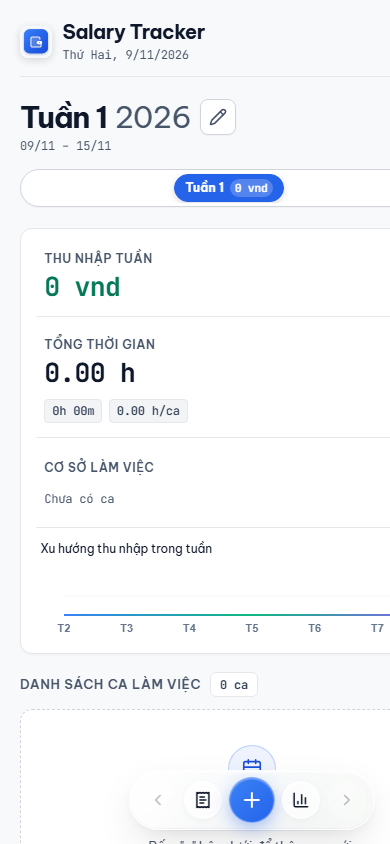
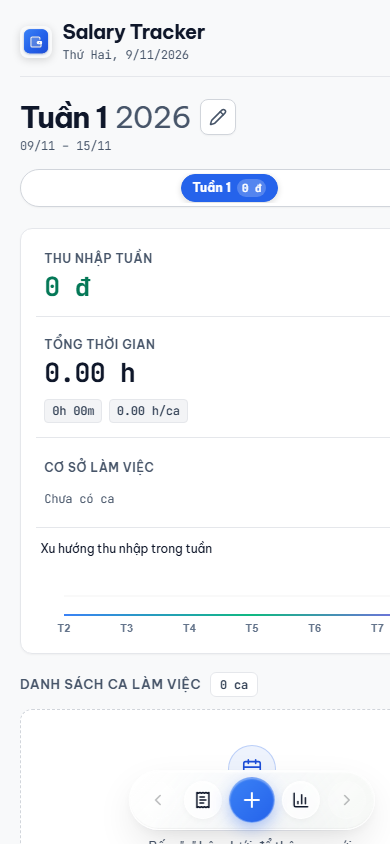
refactor: update currency unit back to đ and đ/h everywhere

Changed region(s): [[0.4308, 0.1848, 0.7385, 0.2464], [0.1846, 0.3081, 0.3077, 0.3697]]

diff --git a/index.html b/index.html
@@ -131,7 +131,7 @@
           <div class="kpi-card-meta">
             <span class="kpi-card-label" data-i18n="kpi_salary">Thu nhập tuần</span>
             <div class="kpi-card-figure-row">
-              <span class="kpi-card-number font-mono" id="kpiWeekSalary">0 vnd</span>
+              <span class="kpi-card-number font-mono" id="kpiWeekSalary">0 đ</span>
             </div>
           </div>
         </div>
@@ -314,18 +314,18 @@
 
         <div class="form-grid-2">
           <div class="form-item">
-            <label class="form-label" for="shiftAllowance" data-i18n="modal_allowance">Phụ cấp / Thưởng (vnd)</label>
+            <label class="form-label" for="shiftAllowance" data-i18n="modal_allowance">Phụ cấp / Thưởng (đ)</label>
             <div class="input-with-tag">
               <input type="number" id="shiftAllowance" class="form-input" value="0" min="0" step="1000" placeholder="0">
-              <span class="tag" data-i18n="currency_unit">vnd</span>
+              <span class="tag" data-i18n="currency_unit">đ</span>
             </div>
           </div>
 
           <div class="form-item">
-            <label class="form-label" for="shiftDeduction" data-i18n="modal_deduction">Khấu trừ (vnd)</label>
+            <label class="form-label" for="shiftDeduction" data-i18n="modal_deduction">Khấu trừ (đ)</label>
             <div class="input-with-tag">
               <input type="number" id="shiftDeduction" class="form-input" value="0" min="0" step="1000" placeholder="0">
-              <span class="tag" data-i18n="currency_unit">vnd</span>
+              <span class="tag" data-i18n="currency_unit">đ</span>
             </div>
           </div>
         </div>
@@ -348,7 +348,7 @@
           </div>
           <div class="calc-strip-right">
             <span id="previewDuration" class="calc-val font-mono">0.00h</span>
-            <span id="previewSalary" class="calc-val font-mono">0 vnd</span>
+            <span id="previewSalary" class="calc-val font-mono">0 đ</span>
           </div>
         </div>
       </div>
@@ -403,7 +403,7 @@
             </div>
             <div class="shift-add-wp-rate-wrap">
               <input type="text" inputmode="numeric" id="shiftNewWpRate" class="form-input" placeholder="Đơn giá" autocomplete="off">
-              <span class="shift-rate-unit">vnd/h</span>
+              <span class="shift-rate-unit">đ/h</span>
             </div>
             <button type="button" id="btnShiftAddWp" class="btn-action-primary shift-add-wp-btn" title="Thêm nơi làm việc" aria-label="Thêm nơi làm việc">
               <svg viewBox="0 0 24 24" fill="none" stroke="currentColor" stroke-width="2" stroke-linecap="round" stroke-linejoin="round" width="13" height="13">
@@ -480,7 +480,7 @@
 
             <div class="stat-kpi-card stat-kpi-primary">
               <span class="sk-label" data-i18n="kpi_total_income">Thu nhập</span>
-              <span class="sk-val font-mono" id="akTotalSalary">0 vnd</span>
+              <span class="sk-val font-mono" id="akTotalSalary">0 đ</span>
               <span class="sk-meta font-mono" id="akSalaryPeriod">Tuần này</span>
             </div>
 
@@ -508,7 +508,7 @@
             <div class="stats-chart-header">
               <span class="stats-box-title font-mono" id="timelineChartTitle" data-i18n="chart_title_daily">Thu nhập
                 theo ngày</span>
-              <span class="stats-box-tag font-mono" id="timelineChartSubtitle">vnd</span>
+              <span class="stats-box-tag font-mono" id="timelineChartSubtitle">đ</span>
             </div>
             <div class="stats-canvas-wrap">
               <canvas id="timelineChartCanvas" class="stats-timeline-canvas"></canvas>
@@ -1080,7 +1080,7 @@
               <input type="text" id="profileNewWpName" class="form-input profile-wp-add-name" placeholder="Tên nơi làm" autocomplete="off">
               <div class="profile-wp-add-rate-wrap">
                 <input type="text" inputmode="numeric" id="profileNewWpRate" class="form-input profile-wp-add-rate" placeholder="Đơn giá" autocomplete="off">
-                <span class="profile-wp-add-unit">vnd/h</span>
+                <span class="profile-wp-add-unit">đ/h</span>
               </div>
               <button type="submit" id="btnProfileAddWp" class="btn-action-primary profile-wp-add-btn" title="Thêm nơi làm việc" aria-label="Thêm nơi làm việc">
                 <svg viewBox="0 0 24 24" fill="none" stroke="currentColor" stroke-width="2.2" stroke-linecap="round" stroke-linejoin="round" width="13" height="13">

diff --git a/js/i18n.js b/js/i18n.js
@@ -20,8 +20,8 @@ const I18N_VI = {
     week_next: 'Tuần sau',
     btn_add_shift: 'Thêm ca',
     week_prefix: 'Tuần',
-    rate_unit: 'vnd/h',
-    currency_unit: 'vnd',
+    rate_unit: 'đ/h',
+    currency_unit: 'đ',
 
     theme_light: 'Sáng',
     theme_dark: 'Tối',
@@ -112,8 +112,8 @@ const I18N_VI = {
     modal_workplaces_title: 'Cơ sở làm việc',
     modal_workplaces_desc: 'Địa điểm và lương cơ bản',
     profile_manage_workplaces: 'Cơ sở làm việc',
-    modal_allowance: 'Phụ cấp / Thưởng (vnd)',
-    modal_deduction: 'Khấu trừ (vnd)',
+    modal_allowance: 'Phụ cấp / Thưởng (đ)',
+    modal_deduction: 'Khấu trừ (đ)',
     ph_deduction: '0',
     slip_th_deduction: 'Khấu trừ',
     csv_col_deduction: 'Khấu trừ',
@@ -163,8 +163,8 @@ const I18N_VI = {
     kpi_avg_week: 'TB / Tuần',
     chart_title_daily: 'Thu nhập theo ngày',
     chart_title_weekly: 'Thu nhập theo tuần',
-    chart_sub_daily: 'Theo ngày (vnd)',
-    chart_sub_weekly: 'Theo tuần (vnd)',
+    chart_sub_daily: 'Theo ngày (đ)',
+    chart_sub_weekly: 'Theo tuần (đ)',
     chart_title_workplace: 'Nơi làm việc',
     no_shift_data: 'Chưa có dữ liệu ca làm việc.',
     no_shifts: 'Chưa có ca',
@@ -185,7 +185,7 @@ const I18N_VI = {
     time_unknown: 'Không rõ thời gian',
 
     settings_title: 'Cài đặt',
-    setting_workplaces: 'Nơi làm việc và đơn giá (vnd/h)',
+    setting_workplaces: 'Nơi làm việc và đơn giá (đ/h)',
     ph_new_workplace: 'Nơi làm mới',
     btn_add_workplace: 'Thêm nơi làm',
     setting_data: 'Dữ liệu',
@@ -196,7 +196,7 @@ const I18N_VI = {
     setting_language: 'Ngôn ngữ (Language)',
     btn_save_settings: 'Lưu cài đặt',
     empty_workplaces_hint: 'Chưa có nơi làm việc. Thêm ở ô bên dưới.',
-    custom_wp_rate: 'Đơn giá (vnd/h)',
+    custom_wp_rate: 'Đơn giá (đ/h)',
     btn_delete_wp: 'Xóa nơi làm',
     btn_rename_wp: 'Đổi tên nơi làm',
     warn_wp_name_empty: 'Vui lòng nhập tên nơi làm',
@@ -214,7 +214,7 @@ const I18N_VI = {
     modal_week_name: 'Tên tuần',
     ph_week_name: 'Tên tuần',
     modal_week_start: 'Ngày bắt đầu tuần (T2)',
-    modal_week_rate: 'Đơn giá (vnd/h)',
+    modal_week_rate: 'Đơn giá (đ/h)',
     btn_update_week: 'Cập nhật thông tin tuần',
 
     slip_modal_title: 'Phiếu chấm công',

diff --git a/js/ui/modals.js b/js/ui/modals.js
@@ -215,13 +215,13 @@ export const updateModalComputedPreview = () => {
     const fullFormatted = fmtCurrency(wage);
     prevSal.title = fullFormatted;
     if (wage >= 1_000_000_000_000_000) {
-      prevSal.textContent = '> 999 nghìn tỷ vnd';
+      prevSal.textContent = '> 999 nghìn tỷ đ';
     } else if (wage >= 1_000_000_000_000) {
       const val = (wage / 1_000_000_000_000).toLocaleString('vi-VN', { maximumFractionDigits: 2 });
-      prevSal.textContent = `${val} nghìn tỷ vnd`;
+      prevSal.textContent = `${val} nghìn tỷ đ`;
     } else if (wage >= 1_000_000_000) {
       const val = (wage / 1_000_000_000).toLocaleString('vi-VN', { maximumFractionDigits: 2 });
-      prevSal.textContent = `${val} tỷ vnd`;
+      prevSal.textContent = `${val} tỷ đ`;
     } else {
       prevSal.textContent = fullFormatted;
     }
@@ -955,7 +955,7 @@ export const renderShiftWorkplacesList = () => {
         <span class="swq-rate-label">Đơn giá theo giờ:</span>
         <div class="swq-rate-input-wrap">
           <input type="text" inputmode="numeric" class="swq-rate-input" data-wp="${escapeHtml(wp)}" value="${formatWpRateDisplay(rate)}" placeholder="0" autocomplete="off">
-          <span class="swq-rate-tag">vnd/h</span>
+          <span class="swq-rate-tag">đ/h</span>
         </div>
       </div>
     `;
@@ -1562,7 +1562,7 @@ export const renderProfileWorkplacesEditList = () => {
         <span class="profile-wp-rate-label font-sans">Đơn giá theo giờ:</span>
         <div class="profile-wp-rate-input-wrap">
           <input type="text" inputmode="numeric" class="form-input profile-wp-rate-input font-mono" data-p-rate="${escapeHtml(wp)}" value="${formatWpRateDisplay(rate)}" placeholder="0" autocomplete="off">
-          <span class="profile-wp-rate-tag font-mono">vnd/h</span>
+          <span class="profile-wp-rate-tag font-mono">đ/h</span>
         </div>
       </div>
     `;

diff --git a/js/ui/export.js b/js/ui/export.js
@@ -18,7 +18,7 @@ export const exportCurrentWeekCSV = () => {
   if (!week) return;
 
   let csvContent = '\uFEFF';
-  const unit = t('rate_unit', 'vnd/h');
+  const unit = t('rate_unit', 'đ/h');
   csvContent += `${t('csv_slip_title', 'BẢNG CHẤM CÔNG VÀ LƯƠNG')} — ${getLocalizedWeekName(week.name)}\r\n\r\n`;
   csvContent += `"${t('csv_col_day', 'Thứ')}","${t('csv_col_type', 'Ca')}","${t('csv_col_workplace', 'Nơi làm việc')}","${t('csv_col_rate', 'Đơn giá')} (${unit})","${t('csv_col_start', 'Giờ bắt đầu')}","${t('csv_col_end', 'Giờ kết thúc')}","${t('csv_col_break', 'Nghỉ (phút)')}","${t('csv_col_hours', 'Số giờ')}","${t('csv_col_ot', 'Hệ số OT')}","${t('csv_col_allowance', 'Thưởng/Phụ cấp')}","${t('csv_col_deduction', 'Khấu trừ')}","${t('csv_col_total', 'Thành tiền')}","${t('csv_col_note', 'Ghi chú')}"\r\n`;
 
@@ -50,7 +50,7 @@ export const exportCurrentWeekCSV = () => {
 
 export const exportAllWeeksCSV = () => {
   let csvContent = '\uFEFF';
-  const unit = t('rate_unit', 'vnd/h');
+  const unit = t('rate_unit', 'đ/h');
   csvContent += `${t('csv_all_weeks_title', 'TỔNG HỢP CA LÀM VIỆC VÀ LƯƠNG TẤT CẢ CÁC TUẦN')}\r\n\r\n`;
   csvContent += `"${t('csv_col_week', 'Tuần')}","${t('csv_col_date_range', 'Khoảng ngày')}","${t('csv_col_rate', 'Đơn giá')} (${unit})","${t('csv_col_work_date', 'Ngày làm')}","${t('csv_col_day', 'Thứ')}","${t('csv_col_type', 'Ca')}","${t('csv_col_workplace', 'Nơi làm việc')}","${t('csv_col_start', 'Bắt đầu')}","${t('csv_col_end', 'Kết thúc')}","${t('csv_col_break', 'Nghỉ (phút)')}","${t('csv_col_hours', 'Số giờ')}","${t('csv_col_ot', 'Hệ số OT')}","${t('csv_col_allowance', 'Thưởng/Phụ cấp')}","${t('csv_col_deduction', 'Khấu trừ')}","${t('csv_col_total', 'Thành tiền')}","${t('csv_col_note', 'Ghi chú')}"\r\n`;
 

diff --git a/js/ui/chart.js b/js/ui/chart.js
@@ -560,7 +560,7 @@ export const renderAnalyticsDashboard = () => {
 
   const subtitle = document.getElementById('timelineChartSubtitle');
   if (subtitle) {
-    subtitle.textContent = analyticsState.timeFilter === 'current' ? t('chart_sub_daily', 'Theo ngày (vnd)') : t('chart_sub_weekly', 'Theo tuần (vnd)');
+    subtitle.textContent = analyticsState.timeFilter === 'current' ? t('chart_sub_daily', 'Theo ngày (đ)') : t('chart_sub_weekly', 'Theo tuần (đ)');
   }
   const title = document.getElementById('timelineChartTitle');
   if (title) {

diff --git a/js/app.js b/js/app.js
@@ -312,7 +312,7 @@ const renderWeekDetails = () => {
   }
 
   const rateBadge = document.getElementById('currentWeekRateBadge');
-  if (rateBadge) rateBadge.textContent = `${new Intl.NumberFormat('vi-VN').format(getShiftRate())} vnd/h`;
+  if (rateBadge) rateBadge.textContent = `${new Intl.NumberFormat('vi-VN').format(getShiftRate())} đ/h`;
 
   const totalHours = week.shifts.reduce((acc, s) => acc + Number(s.hours || 0), 0);
   const totalSalary = calculateWeekTotalSalary(week);

diff --git a/js/calculator.js b/js/calculator.js
@@ -5,7 +5,7 @@ export { formatShiftType };
 
 export const fmtCurrency = (num) => {
   const val = Math.round(num || 0);
-  return new Intl.NumberFormat('vi-VN').format(val) + ' vnd';
+  return new Intl.NumberFormat('vi-VN').format(val) + ' đ';
 };
 
 export const fmtHours = (hours) => {

diff --git a/README.md b/README.md
@@ -72,7 +72,7 @@
 - Tự động tính toán số giờ làm việc thực tế sau khi trừ đi số phút nghỉ giải lao.
 
 ### 💰 2. Động cơ tính lương chuẩn xác tuyệt đối (Precision Wage Engine)
-- Tính toán tiền lương theo đơn vị tiền tệ chuẩn `vnd` và đơn giá theo giờ `vnd/h`.
+- Tính toán tiền lương theo đơn vị tiền tệ chuẩn `đ` và đơn giá theo giờ `đ/h`.
 - Xử lý chuẩn xác các ca làm việc xuyên đêm vượt qua mốc nửa đêm `00:00` (ví dụ: `22:00` đến `04:00` sáng hôm sau).
 - Hỗ trợ linh hoạt hệ số tăng ca OT (`1.0x`, `1.5x`, `2.0x`, `3.0x`).
 - Ghi nhận chi tiết tiền phụ cấp/thưởng và các khoản khấu trừ cho từng ca.
